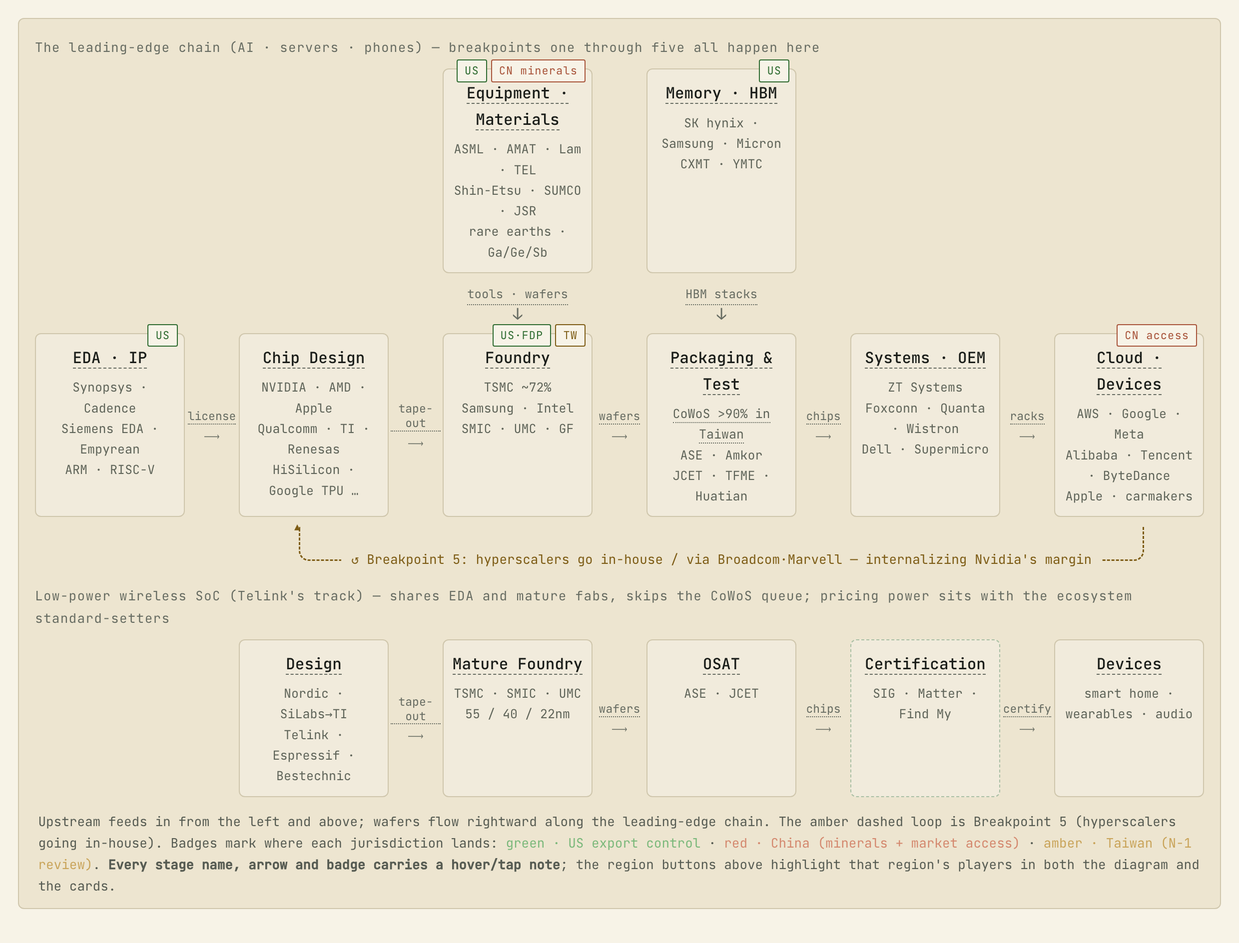
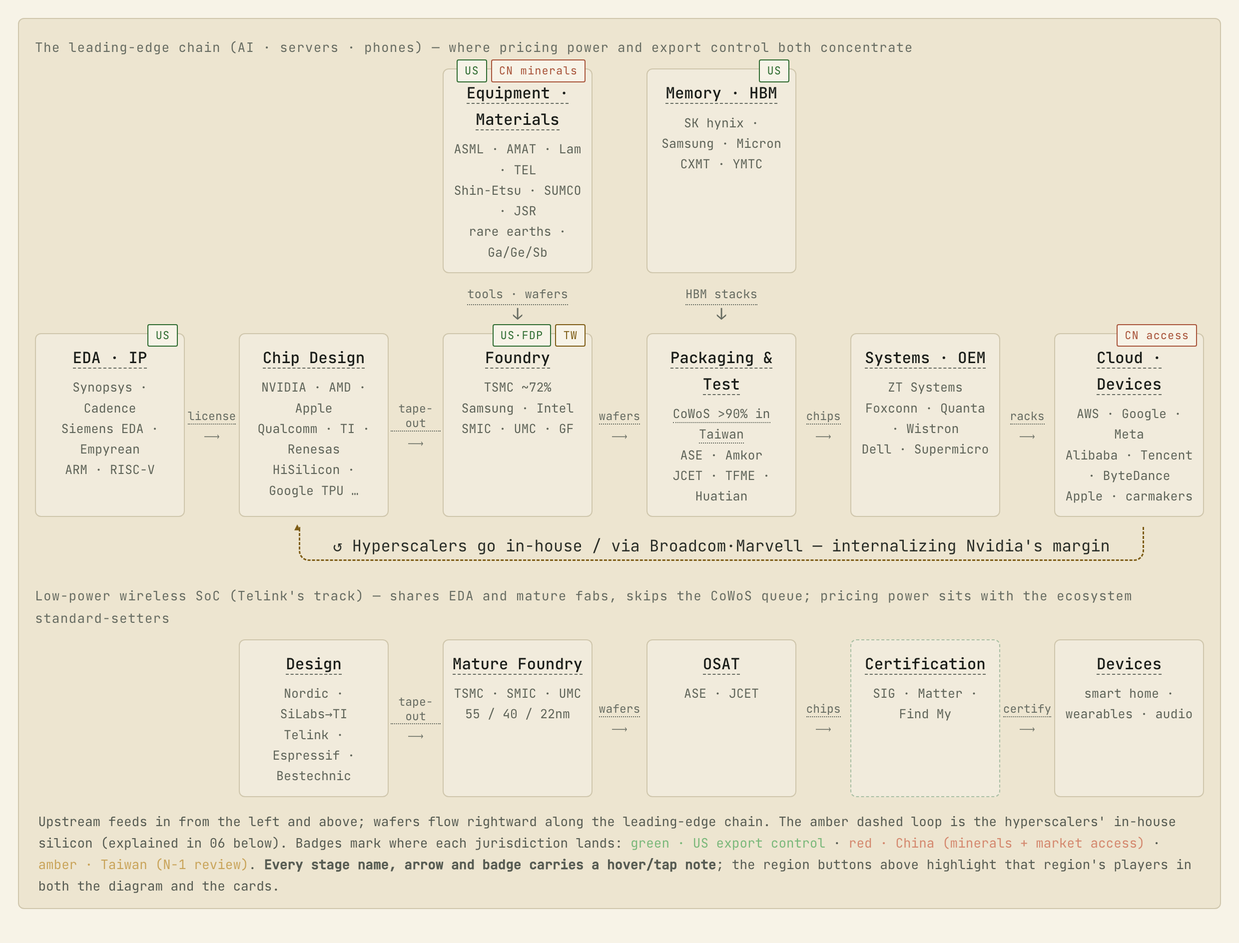
semis: drop the breakpoint numbering, explain the loop in prose
"断点一到五都发生在这条线上" pointed at a numbering the page never
defines, and the rack tooltip pointed at "the last column in the
demand-migration table" — a table that lives on the breakpoints page,
which is off the site. Both were unresolvable for anyone holding only
this page.

The lane header now says what is true of that line on its own terms
(pricing power and export control concentrate there). The rack tooltip
states the shift directly. The amber loop keeps its label but loses the
number and its in-figure definition; the substance moves to a prose
block at the end of 06, where the hyperscalers already are.

Figures re-captured, both themes.

diff --git a/quartz/static/semis/value-chain-map.html b/quartz/static/semis/value-chain-map.html
@@ -350,7 +350,7 @@ h1.article-title{font-size:26px}
 <div class="ctrl-group"><span class="ctrl-lab"><span class="tg-lang zh">地区筛选</span><span class="tg-lang en">Region filter</span></span><div class="legend"><label class="b-all" for="r-all"><span class="tg-lang zh">全部</span><span class="tg-lang en">All</span></label><label class="b-us" for="r-us"><span class="tg-lang zh">美国</span><span class="tg-lang en">US</span></label><label class="b-tw" for="r-tw"><span class="tg-lang zh">台湾</span><span class="tg-lang en">Taiwan</span></label><label class="b-cn" for="r-cn"><span class="tg-lang zh">中国大陆</span><span class="tg-lang en">China</span></label><label class="b-kr" for="r-kr"><span class="tg-lang zh">韩国</span><span class="tg-lang en">Korea</span></label><label class="b-jp" for="r-jp"><span class="tg-lang zh">日本</span><span class="tg-lang en">Japan</span></label><label class="b-eu" for="r-eu"><span class="tg-lang zh">欧洲</span><span class="tg-lang en">Europe</span></label><label class="b-gl" for="r-gl"><span class="tg-lang zh">跨国/标准</span><span class="tg-lang en">Global/Standards</span></label></div></div>
 </div>
 <p class="hint"><span class="tg-lang zh">悬停或点按任意玩家、环节可看解释；颜色 = 总部所在地，点「地区筛选」只看某一地区；<b>US / CN / TW</b> 角标 = 该层受哪套管辖权约束。</span><span class="tg-lang en">Hover or tap any player or stage for a note. Color = HQ region — use the region filter to isolate one. <b>US / CN / TW</b> badges mark which jurisdiction binds each layer.</span></p>
-<figure class="fig"><div class="fgrid"><div class="flane" style="grid-row:1;grid-column:1/-1"><span class="tg-lang zh">先进制程链（AI · 服务器 · 手机）—— 断点一到五都发生在这条线上</span><span class="tg-lang en">The leading-edge chain (AI · servers · phones) — breakpoints one through five all happen here</span></div>
+<figure class="fig"><div class="fgrid"><div class="flane" style="grid-row:1;grid-column:1/-1"><span class="tg-lang zh">先进制程链（AI · 服务器 · 手机）—— 定价权与出口管制都集中在这条线上</span><span class="tg-lang en">The leading-edge chain (AI · servers · phones) — where pricing power and export control both concentrate</span></div>
 <div class="fbox" style="grid-row:2;grid-column:5"><span class="ftag"><span class="fpill fp-us tg-tip" tabindex="0">US<span class="tg-tip-box"><span class="tg-lang zh"><b>美国出口管制落点</b>。BIS 许可 + 实体清单。管的是「你能不能造出来」——工具、软件、IP、HBM，全部在上游。</span><span class="tg-lang en"><b>Where US export control lands.</b> BIS licensing plus the Entity List. It governs whether you can build at all — tools, software, IP, HBM: all upstream.</span></span></span><span class="fpill fp-cn tg-tip" tabindex="0"><span class="tg-lang zh">CN 稀土</span><span class="tg-lang en">CN minerals</span><span class="tg-tip-box"><span class="tg-lang zh"><b>镓、锗、锑</b>。半导体和光电器件的关键原料。中国 2023 年起实施出口许可，2024 年 12 月 3 日宣布对美国「原则上不予许可」——直接对应前一天美国的实体清单大扩容。2025 年 11 月改为许可制并暂停至 2026 年 11 月 27 日，但军事用户禁令保留。<br><br><b>0.1% 微量规则</b>。中国商务部 2025 年 10 月 9 日第 61/62 号公告的核心：只要一件外国制造的产品里含有价值占比 0.1% 以上的中国原产稀土，出口就需要中国的许可证。<b>这是中国版的 FDP 规则</b>——同样的域外管辖逻辑，方向相反。</span><span class="tg-lang en"><b>Gallium, germanium, antimony</b> — critical inputs for semiconductors and optoelectronics. China imposed licensing from 2023 and on 3 December 2024 announced exports to the US would 'in principle' not be permitted — one day after the largest US Entity List expansion. Converted back to licensing in November 2025 and suspended until 27 November 2026, though the military end-user ban remains.<br><br><b>The 0.1% de minimis rule</b> — the core of China's MOFCOM Notices 61/62 of 9 October 2025: any foreign-made good containing Chinese-origin rare earths worth 0.1% or more of its value requires a Chinese export licence. <b>This is China's FDP rule</b> — the same extraterritorial logic, pointed the other way.</span></span></span></span><span class="ft"><span class="tg-tip " tabindex="0"><span class="tg-lang zh">设备 · 材料</span><span class="tg-lang en">Equipment · Materials</span><span class="tg-tip-box"><span class="tg-lang zh"><b>设备 · 材料</b>。造芯片用的机器和原料，集中度比下游任何一层都高：EUV 只有 ASML 一家，其光源来自美国 Cymer、镜头来自德国蔡司。稀土和镓锗锑的精炼环节 80% 以上在中国。</span><span class="tg-lang en"><b>Equipment & materials</b> — more concentrated than anything downstream: one EUV maker (ASML), whose source is American (Cymer) and optics German (Zeiss). China refines 80%+ of rare earths and Ga/Ge/Sb.</span></span></span></span><span class="fp"><span class="sr sr-eu">ASML</span> · <span class="sr sr-us">AMAT</span> · <span class="sr sr-us">Lam</span> · <span class="sr sr-jp">TEL</span><br><span class="sr sr-jp"><span class="tg-lang zh">信越</span><span class="tg-lang en">Shin-Etsu</span></span> · <span class="sr sr-jp">SUMCO</span> · <span class="sr sr-jp">JSR</span><br><span class="sr sr-cn"><span class="tg-lang zh">稀土 · 镓锗锑</span><span class="tg-lang en">rare earths · Ga/Ge/Sb</span></span></span></div>
 <div class="fbox" style="grid-row:2;grid-column:7"><span class="ftag"><span class="fpill fp-us tg-tip" tabindex="0">US<span class="tg-tip-box"><span class="tg-lang zh"><b>美国出口管制落点</b>。BIS 许可 + 实体清单。管的是「你能不能造出来」——工具、软件、IP、HBM，全部在上游。</span><span class="tg-lang en"><b>Where US export control lands.</b> BIS licensing plus the Entity List. It governs whether you can build at all — tools, software, IP, HBM: all upstream.</span></span></span></span><span class="ft"><span class="tg-tip " tabindex="0"><span class="tg-lang zh">存储 · HBM</span><span class="tg-lang en">Memory · HBM</span><span class="tg-tip-box"><span class="tg-lang zh"><b>HBM（High Bandwidth Memory，高带宽内存）</b>。垂直堆叠的 DRAM，紧贴处理器裸片放置。AI 加速器的主要规格竞赛点，全球只有 SK 海力士、三星、美光三家能量产。2024 年 12 月起被列入美国出口管制，<b>这是目前限制华为昇腾出货量的真正瓶颈——不是逻辑晶圆</b>。</span><span class="tg-lang en"><b>HBM (High Bandwidth Memory)</b> — vertically stacked DRAM placed against the processor die. Only SK hynix, Samsung and Micron produce it at volume. Export-controlled by the US since December 2024, and <b>the actual binding constraint on Huawei's Ascend shipments — not logic wafers</b>.</span></span></span></span><span class="fp"><span class="sr sr-kr"><span class="tg-lang zh">SK 海力士</span><span class="tg-lang en">SK hynix</span></span> · <span class="sr sr-kr"><span class="tg-lang zh">三星</span><span class="tg-lang en">Samsung</span></span> · <span class="sr sr-us"><span class="tg-lang zh">美光</span><span class="tg-lang en">Micron</span></span><br><span class="sr sr-cn"><span class="tg-lang zh">长鑫</span><span class="tg-lang en">CXMT</span></span> · <span class="sr sr-cn"><span class="tg-lang zh">长江存储</span><span class="tg-lang en">YMTC</span></span></span></div>
 <div class="fvert" style="grid-row:3;grid-column:5"><span class="tg-tip " tabindex="0"><span class="tg-lang zh">设备 · 硅片</span><span class="tg-lang en">tools · wafers</span><span class="tg-tip-box"><span class="tg-lang zh">光刻机、刻蚀机、硅片、光刻胶从这里进厂。断供这一条竖线，工厂两年后就造不了下一代。</span><span class="tg-lang en">Scanners, etchers, wafers and resists enter the fab here. Cut this vertical and in two years the fab cannot build the next node.</span></span></span><span class="ar">↓</span></div>
@@ -364,9 +364,9 @@ h1.article-title{font-size:26px}
 <div class="fbox" style="grid-row:4;grid-column:7"><span class="ft"><span class="tg-tip " tabindex="0"><span class="tg-lang zh">封装测试</span><span class="tg-lang en">Packaging & Test</span><span class="tg-tip-box"><span class="tg-lang zh"><b>封装测试</b>。晶圆切成裸片后，封装把裸片装进能焊到电路板上的黑块，测试逐颗通电挑坏。AI 芯片在这一步把逻辑裸片和 HBM 合体（CoWoS）——<b>整条链的真正瓶颈在这里，不在晶圆</b>。</span><span class="tg-lang en"><b>Packaging & test.</b> Dies are sealed into solderable packages and tested part by part. For AI chips this is where logic dies meet HBM (CoWoS) — <b>the chain's real bottleneck, ahead of wafers</b>.</span></span></span></span><span class="fp"><span class="tg-tip sr sr-tw" tabindex="0"><span class="sr sr-tw"><span class="tg-lang zh">CoWoS &gt;90% 在台</span><span class="tg-lang en">CoWoS &gt;90% in Taiwan</span></span><span class="tg-tip-box"><span class="tg-lang zh"><b>CoWoS（Chip-on-Wafer-on-Substrate）</b>。台积电的先进封装技术，把逻辑裸片和 HBM 堆栈接合到同一块中介层上。<b>限制 AI 芯片产出的真正瓶颈是它的产能，而不是晶圆产能</b>。台积电握有全球九成以上的 CoWoS 产能，2026 年底目标月产约 12 万片。</span><span class="tg-lang en"><b>CoWoS (Chip-on-Wafer-on-Substrate)</b> — TSMC's advanced packaging process, bonding logic dies and HBM stacks onto a shared interposer. <b>The real constraint on AI chip output is CoWoS capacity, not wafer capacity.</b> TSMC holds over 90% of it, targeting ~120k wafers/month by end-2026.</span></span></span><br><span class="sr sr-tw"><span class="tg-lang zh">日月光</span><span class="tg-lang en">ASE</span></span> · <span class="sr sr-us"><span class="tg-lang zh">安靠</span><span class="tg-lang en">Amkor</span></span><br><span class="sr sr-cn"><span class="tg-lang zh">长电</span><span class="tg-lang en">JCET</span></span> · <span class="sr sr-cn"><span class="tg-lang zh">通富</span><span class="tg-lang en">TFME</span></span> · <span class="sr sr-cn"><span class="tg-lang zh">华天</span><span class="tg-lang en">Huatian</span></span></span></div>
 <div class="fcon" style="grid-row:4;grid-column:8"><span class="tg-tip " tabindex="0"><span class="tg-lang zh">芯片</span><span class="tg-lang en">chips</span><span class="tg-tip-box"><span class="tg-lang zh">封好、测完、挑掉坏品之后的成品芯片。</span><span class="tg-lang en">Finished chips: packaged, tested, bad parts culled.</span></span></span><span class="ar">⟶</span></div>
 <div class="fbox" style="grid-row:4;grid-column:9"><span class="ft"><span class="tg-tip " tabindex="0"><span class="tg-lang zh">系统 · 整机</span><span class="tg-lang en">Systems · OEM</span><span class="tg-tip-box"><span class="tg-lang zh"><b>系统 · 整机</b>。把芯片装成服务器和整机架。AI 时代「能交付一整套能跑的系统」本身就是定价权——AMD 花 49 亿美元买 ZT Systems，买的就是这件事。</span><span class="tg-lang en"><b>Systems & racks.</b> In the AI era, the ability to deliver a complete working system is itself pricing power — that is what AMD's $4.9bn for ZT Systems bought.</span></span></span></span><span class="fp"><span class="sr sr-us">ZT Systems</span><br><span class="sr sr-tw"><span class="tg-lang zh">鸿海</span><span class="tg-lang en">Foxconn</span></span> · <span class="sr sr-tw"><span class="tg-lang zh">广达</span><span class="tg-lang en">Quanta</span></span> · <span class="sr sr-tw"><span class="tg-lang zh">纬创</span><span class="tg-lang en">Wistron</span></span><br><span class="sr sr-us">Dell</span> · <span class="sr sr-us">Supermicro</span></span></div>
-<div class="fcon" style="grid-row:4;grid-column:10"><span class="tg-tip " tabindex="0"><span class="tg-lang zh">整机架</span><span class="tg-lang en">racks</span><span class="tg-tip-box"><span class="tg-lang zh">AI 的交付单位已经从「一张卡」变成「一个整机架」——这正是断点四表格里最后一栏的含义。</span><span class="tg-lang en">The AI unit of delivery has shifted from a card to a full rack — the meaning of the last column in the demand-migration table.</span></span></span><span class="ar">⟶</span></div>
+<div class="fcon" style="grid-row:4;grid-column:10"><span class="tg-tip " tabindex="0"><span class="tg-lang zh">整机架</span><span class="tg-lang en">racks</span><span class="tg-tip-box"><span class="tg-lang zh">AI 的交付单位已经从「一张卡」变成「一个整机架」——定价权也跟着从单颗芯片挪到了整机交付能力。</span><span class="tg-lang en">The AI unit of delivery has shifted from a card to a full rack, and pricing power moved with it — from the chip to whoever can ship the rack.</span></span></span><span class="ar">⟶</span></div>
 <div class="fbox" style="grid-row:4;grid-column:11"><span class="ftag"><span class="fpill fp-cn tg-tip" tabindex="0"><span class="tg-lang zh">CN 准入</span><span class="tg-lang en">CN access</span><span class="tg-tip-box"><span class="tg-lang zh"><b>中国的杠杆：市场准入</b>。让不让本国公司买。2025 年 9 月网信办禁止主要科技公司采购英伟达 AI 芯片；2026 年 8 月仅放行获批 H200 数量的约 13%，其余需发改委逐案批准。</span><span class="tg-lang en"><b>China's lever: market access.</b> Whether its own firms may buy. In Sept 2025 the CAC barred major tech firms from Nvidia AI chips; in Aug 2026 only ~13% of authorized H200 volume was released, the rest pending case-by-case NDRC approval.</span></span></span></span><span class="ft"><span class="tg-tip tipR " tabindex="0"><span class="tg-lang zh">云 · 终端</span><span class="tg-lang en">Cloud · Devices</span><span class="tg-tip-box"><span class="tg-lang zh"><b>云 · 终端</b>。最终买单的人。本轮增长由少数超大规模厂商的资本开支驱动，而不是手机/PC 的单位出货——周期风险的性质因此完全变了。</span><span class="tg-lang en"><b>Cloud & end buyers.</b> This cycle is driven by a few hyperscalers' capex, not phone/PC units — which changes the very nature of cyclical risk.</span></span></span></span><span class="fp"><span class="sr sr-us">AWS</span> · <span class="sr sr-us">Google</span> · <span class="sr sr-us">Meta</span><br><span class="sr sr-cn"><span class="tg-lang zh">阿里</span><span class="tg-lang en">Alibaba</span></span> · <span class="sr sr-cn"><span class="tg-lang zh">腾讯</span><span class="tg-lang en">Tencent</span></span> · <span class="sr sr-cn"><span class="tg-lang zh">字节</span><span class="tg-lang en">ByteDance</span></span><br><span class="sr sr-us">Apple</span> · <span class="sr sr-gl"><span class="tg-lang zh">车厂</span><span class="tg-lang en">carmakers</span></span></span></div>
-<div class="fbrk" style="grid-row:5;grid-column:3/12"><span class="tg-tip " tabindex="0"><span class="tg-lang zh">↺ 断点五：云厂商自研 / 委托 Broadcom·Marvell —— 把英伟达的毛利内化</span><span class="tg-lang en">↺ Breakpoint 5: hyperscalers go in-house / via Broadcom·Marvell — internalizing Nvidia's margin</span><span class="tg-tip-box"><span class="tg-lang zh"><b>断点五</b>。超大规模厂商自研芯片（Google TPU、AWS Trainium、Microsoft Maia、Meta MTIA），或委托博通/Marvell 协同设计（两家合计约占定制 ASIC 市场 95%）。动机第一条：把英伟达 70%+ 的毛利内化。</span><span class="tg-lang en"><b>Breakpoint 5.</b> Hyperscalers design in-house (TPU, Trainium, Maia, MTIA) or co-design with Broadcom/Marvell (together ~95% of custom ASIC). Motive #1: internalize Nvidia's 70%+ gross margin.</span></span></span></div>
+<div class="fbrk" style="grid-row:5;grid-column:3/12"><span><span class="tg-lang zh">↺ 云厂商自研 / 委托 Broadcom·Marvell —— 把英伟达的毛利内化</span><span class="tg-lang en">↺ Hyperscalers go in-house / via Broadcom·Marvell — internalizing Nvidia's margin</span></span></div>
 <div class="flane" style="grid-row:6;grid-column:1/-1;margin-top:14px"><span class="tg-lang zh">低功耗无线 SoC（泰凌微所在赛道）—— 共用 EDA 与成熟产线，不排 CoWoS 的队，定价权在生态标准方</span><span class="tg-lang en">Low-power wireless SoC (Telink's track) — shares EDA and mature fabs, skips the CoWoS queue; pricing power sits with the ecosystem standard-setters</span></div>
 <div class="fbox" style="grid-row:7;grid-column:3"><span class="ft"><span class="tg-tip " tabindex="0"><span class="tg-lang zh">设计</span><span class="tg-lang en">Design</span><span class="tg-tip-box"><span class="tg-lang zh"><b>低功耗无线 SoC 设计</b>。竞争维度是功耗、协议覆盖、认证、SDK 易用性和成本——不是算力。单价几毛到几美元，年出货以亿颗计。</span><span class="tg-lang en"><b>Low-power wireless SoC design.</b> The axes are power, protocol coverage, certification, SDK usability and cost — not compute. Cents to dollars per chip, hundreds of millions of units a year.</span></span></span></span><span class="fp"><span class="sr sr-eu">Nordic</span> · <span class="sr sr-us">SiLabs→TI</span><br><span class="sr sr-cn"><span class="tg-lang zh">泰凌微</span><span class="tg-lang en">Telink</span></span> · <span class="sr sr-cn"><span class="tg-lang zh">乐鑫</span><span class="tg-lang en">Espressif</span></span> · <span class="sr sr-cn"><span class="tg-lang zh">恒玄</span><span class="tg-lang en">Bestechnic</span></span></span></div>
 <div class="fcon" style="grid-row:7;grid-column:4"><span class="tg-tip " tabindex="0"><span class="tg-lang zh">版图</span><span class="tg-lang en">tape-out</span><span class="tg-tip-box"><span class="tg-lang zh"><b>版图（GDSII）→ tape-out</b>。设计数据定稿、签核、交给代工厂的那个时间点。注意它是事件不是过程。一颗普通 7nm SoC 的首次 tape-out 通常就要 5,000 万美元。</span><span class="tg-lang en"><b>Layout (GDSII) → tape-out</b> — the moment design data is finalized, signed off and handed to the foundry. An event, not a process. A first tape-out of an ordinary 7nm SoC typically runs $50m.</span></span></span><span class="ar">⟶</span></div>
@@ -376,7 +376,7 @@ h1.article-title{font-size:26px}
 <div class="fcon" style="grid-row:7;grid-column:8"><span class="tg-tip " tabindex="0"><span class="tg-lang zh">芯片</span><span class="tg-lang en">chips</span><span class="tg-tip-box"><span class="tg-lang zh">封好、测完、挑掉坏品之后的成品芯片。</span><span class="tg-lang en">Finished chips: packaged, tested, bad parts culled.</span></span></span><span class="ar">⟶</span></div>
 <div class="fbox dashed" style="grid-row:7;grid-column:9"><span class="ft"><span class="tg-tip " tabindex="0"><span class="tg-lang zh">认证 · 生态</span><span class="tg-lang en">Certification</span><span class="tg-tip-box"><span class="tg-lang zh"><b>认证 · 生态</b>。芯片厂控制不了的一道门：Bluetooth SIG、Matter、Find My、各国无线电核准决定「什么算能用的设备」。<b>这道门是这条赛道定价权不在芯片厂手上的原因。</b></span><span class="tg-lang en"><b>Certification & ecosystems</b> — a gate the chip vendor does not control: Bluetooth SIG, Matter, Find My and radio approvals decide what counts as a working device. <b>This gate is why pricing power in low-power wireless does not sit with chip makers.</b></span></span></span></span><span class="fp"><span class="sr sr-gl">SIG · Matter · Find My</span></span></div>
 <div class="fcon" style="grid-row:7;grid-column:10"><span class="tg-tip " tabindex="0"><span class="tg-lang zh">进生态</span><span class="tg-lang en">certify</span><span class="tg-tip-box"><span class="tg-lang zh">过了认证才能进 Apple / Google / Amazon 的生态。进不去，芯片再好也卖不动。</span><span class="tg-lang en">Certification is the ticket into the Apple / Google / Amazon ecosystems. Without it, a better chip still does not sell.</span></span></span><span class="ar">⟶</span></div>
-<div class="fbox" style="grid-row:7;grid-column:11"><span class="ft"><span class="tg-tip tipR " tabindex="0"><span class="tg-lang zh">终端</span><span class="tg-lang en">Devices</span><span class="tg-tip-box"><span class="tg-lang zh"><b>终端</b>。智能家居、穿戴、音频。一颗芯片几毛到几美元，一辆车、一间屋子里有几十上百颗。</span><span class="tg-lang en"><b>End devices</b> — smart home, wearables, audio. Cents to dollars per chip; dozens to hundreds per car or household.</span></span></span></span><span class="fp"><span class="tg-lang zh">智能家居 · 穿戴 · 音频</span><span class="tg-lang en">smart home · wearables · audio</span></span></div></div><figcaption><span class="tg-lang zh">上游从左侧与上方汇入，晶圆沿先进制程链向右流动；琥珀色虚线是断点五（超大规模厂商自研）。角标 = 管辖权落点：</span><span class="tg-lang en">Upstream feeds in from the left and above; wafers flow rightward along the leading-edge chain. The amber dashed loop is Breakpoint 5 (hyperscalers going in-house). Badges mark where each jurisdiction lands: </span><span style="color:#7ab87a"><span class="tg-lang zh">绿 · 美国出口管制</span><span class="tg-lang en">green · US export control</span></span> · <span style="color:#d4886e"><span class="tg-lang zh">红 · 中国（稀土 + 市场准入）</span><span class="tg-lang en">red · China (minerals + market access)</span></span> · <span style="color:#c9a45a"><span class="tg-lang zh">黄 · 台湾（N-1 审查）</span><span class="tg-lang en">amber · Taiwan (N-1 review)</span></span><span class="tg-lang zh">。</span><span class="tg-lang en">. </span><span class="tg-lang zh"><b>图里每个环节名、每条箭头、每个角标都可悬停/点按看解释</b>；点上方地区按钮，图和卡片同时高亮该地区玩家。</span><span class="tg-lang en"><b>Every stage name, arrow and badge carries a hover/tap note</b>; the region buttons above highlight that region's players in both the diagram and the cards.</span></figcaption></figure>
+<div class="fbox" style="grid-row:7;grid-column:11"><span class="ft"><span class="tg-tip tipR " tabindex="0"><span class="tg-lang zh">终端</span><span class="tg-lang en">Devices</span><span class="tg-tip-box"><span class="tg-lang zh"><b>终端</b>。智能家居、穿戴、音频。一颗芯片几毛到几美元，一辆车、一间屋子里有几十上百颗。</span><span class="tg-lang en"><b>End devices</b> — smart home, wearables, audio. Cents to dollars per chip; dozens to hundreds per car or household.</span></span></span></span><span class="fp"><span class="tg-lang zh">智能家居 · 穿戴 · 音频</span><span class="tg-lang en">smart home · wearables · audio</span></span></div></div><figcaption><span class="tg-lang zh">上游从左侧与上方汇入，晶圆沿先进制程链向右流动；琥珀色虚线是云厂商自研芯片那条回路（见下方 06）。角标 = 管辖权落点：</span><span class="tg-lang en">Upstream feeds in from the left and above; wafers flow rightward along the leading-edge chain. The amber dashed loop is the hyperscalers' in-house silicon (explained in 06 below). Badges mark where each jurisdiction lands: </span><span style="color:#7ab87a"><span class="tg-lang zh">绿 · 美国出口管制</span><span class="tg-lang en">green · US export control</span></span> · <span style="color:#d4886e"><span class="tg-lang zh">红 · 中国（稀土 + 市场准入）</span><span class="tg-lang en">red · China (minerals + market access)</span></span> · <span style="color:#c9a45a"><span class="tg-lang zh">黄 · 台湾（N-1 审查）</span><span class="tg-lang en">amber · Taiwan (N-1 review)</span></span><span class="tg-lang zh">。</span><span class="tg-lang en">. </span><span class="tg-lang zh"><b>图里每个环节名、每条箭头、每个角标都可悬停/点按看解释</b>；点上方地区按钮，图和卡片同时高亮该地区玩家。</span><span class="tg-lang en"><b>Every stage name, arrow and badge carries a hover/tap note</b>; the region buttons above highlight that region's players in both the diagram and the cards.</span></figcaption></figure>
 <p class="govhead"><span class="tg-lang zh">三套管辖权 · 悬停看规则细节</span><span class="tg-lang en">Three jurisdictions · hover for the rules</span></p>
 <div class="govwrap"><div class="govcard g-us tg-tip" tabindex="0"><b>美国管辖 · US jurisdiction</b><em><span class="tg-lang zh">EDA / 设备 / 先进逻辑 / HBM</span><span class="tg-lang en">EDA / tools / leading-edge logic / HBM</span></em><span class="tg-tip-box"><span class="tg-lang zh"><b>FDP 规则 + 实体清单 + BIS 许可</b>。只要一件外国制造的产品是用美国技术「直接生产」的，美国就主张管辖权——不论它在哪造。这才是台积电受美国法律约束的原因。2022 年 10 月 7 日的规则设定了 16/14nm 逻辑、18nm DRAM、128 层 NAND 的门槛；2024 年 12 月又把 FDP 扩展到设备本身。</span><span class="tg-lang en"><b>FDP rule + Entity List + BIS licensing.</b> If a foreign-made item is the direct product of US technology, Washington claims jurisdiction — wherever it was made. That, not its customer list, is why TSMC is bound by US law. The 7 Oct 2022 rule set thresholds at 16/14nm logic, 18nm DRAM, 128-layer NAND; Dec 2024 extended FDP to equipment itself.</span></span></div><div class="govcard g-cn tg-tip" tabindex="0"><b>中国管辖 · China jurisdiction</b><em><span class="tg-lang zh">稀土 / 镓锗锑 / 最终用途</span><span class="tg-lang en">rare earths / Ga-Ge-Sb / end-use</span></em><span class="tg-tip-box"><span class="tg-lang zh"><b>0.1% 微量规则 + 两用物项管制</b>。2025 年 10 月 9 日商务部第 61/62 号公告：外国制造的商品只要含 0.1% 以上中国原产稀土，出口就需中国许可。<b>结构上与美国 FDP 规则同构。</b>釜山会晤后暂停至 2026 年 11 月 10 日。</span><span class="tg-lang en"><b>The 0.1% de minimis rule + dual-use controls.</b> MOFCOM Notices 61/62 of 9 Oct 2025: any foreign-made good with ≥0.1% Chinese-origin rare-earth content needs a Chinese export licence. <b>Structurally isomorphic to the US FDP rule.</b> Suspended after Busan until 10 Nov 2026.</span></span></div><div class="govcard g-tw tg-tip" tabindex="0"><b>台湾管辖 · Taiwan jurisdiction</b><em><span class="tg-lang zh">代工出海 / 制程外移</span><span class="tg-lang en">overseas fabs / node migration</span></em><span class="tg-tip-box"><span class="tg-lang zh"><b>N-1 原则 + 产创条例第 22 条</b>。海外制程至少落后本土一代。<b>从来不是成文禁令，而是通过投资审查行使的裁量性规范</b>，2025 年 1 月 11 日被经济部长公开松绑，此后持续放宽。</span><span class="tg-lang en"><b>The N-1 rule + Article 22 review.</b> Overseas nodes must trail home by a generation. <b>Never a codified ban — a discretionary norm applied through investment review</b>, publicly relaxed by the economics minister on 11 Jan 2025 and loosened since.</span></span></div></div>
 <section class="stage" id="s-mat">
@@ -429,6 +429,7 @@ h1.article-title{font-size:26px}
 <p class="st-kicker"><span class="tg-lang zh">AI 时代的定价权不在单颗芯片的性能上，而在能不能交付一整套能跑的系统。</span><span class="tg-lang en">AI-era pricing power does not sit in single-chip performance — it sits in whether you can deliver a complete working system.</span></p>
 <div class="grp"><p class="grp-l">机架与代工<i>·</i>Rack &amp; ODM</p><div class="chips"><span class="chip c-us tg-tip" data-r="us" tabindex="0"><span class="chip-n">ZT Systems</span><span class="chip-m"><span class="tg-lang zh">→ AMD 49 亿美元</span><span class="tg-lang en">→ AMD, $4.9bn</span></span><span class="tg-tip-box"><span class="tg-lang zh"><b>ZT Systems</b>。机架级 AI 系统厂商，AMD 以 49 亿美元收购、2025 年 3 月完成。<b>AMD 买的不是技术，是「能交付整机架」这件事本身。</b></span><span class="tg-lang en"><b>ZT Systems</b> — rack-scale AI systems; bought by AMD for $4.9bn, closed March 2025. <b>What AMD bought is not technology but the ability to deliver full racks.</b></span></span></span><span class="chip c-tw tg-tip" data-r="tw" tabindex="0"><span class="chip-n">Foxconn 鸿海 · Quanta · Wistron</span><span class="chip-m"><span class="tg-lang zh">AI 服务器代工</span><span class="tg-lang en">AI server ODM</span></span><span class="tg-tip-box"><span class="tg-lang zh"><b>台系 ODM</b>。鸿海、广达、纬创承接了绝大部分 AI 服务器的实际组装。</span><span class="tg-lang en"><b>Taiwanese ODMs</b> — Foxconn, Quanta and Wistron do the actual assembly of most AI servers.</span></span></span><span class="chip c-us tg-tip" data-r="us" tabindex="0"><span class="chip-n">Supermicro · Dell · HPE</span><span class="chip-m"><span class="tg-lang zh">服务器品牌</span><span class="tg-lang en">server brands</span></span><span class="tg-tip-box"><span class="tg-lang zh"><b>服务器品牌厂</b>。</span><span class="tg-lang en"><b>Server brands.</b></span></span></span></div></div>
 <div class="grp"><p class="grp-l">云 · 最终买家<i>·</i>Cloud &amp; End Buyers</p><div class="chips"><span class="chip c-us tg-tip" data-r="us" tabindex="0"><span class="chip-n">AWS · Google · Microsoft · Meta</span><span class="chip-m"><span class="tg-lang zh">超大规模四家</span><span class="tg-lang en">the four hyperscalers</span></span><span class="tg-tip-box"><span class="tg-lang zh"><b>超大规模厂商</b>。本轮周期最大的差别：增长不再由手机和 PC 的单位出货驱动，而由少数超大规模厂商的资本开支驱动。<b>周期性风险因此从「消费需求」转移到了「少数客户的资本开支决策」</b>——历史上没有先例可参照。</span><span class="tg-lang en"><b>The hyperscalers.</b> This cycle's defining difference: growth is driven by a handful of capex budgets, not phone and PC units. <b>Cyclical risk has moved from consumer demand to a few customers' capex decisions</b> — with no historical precedent to consult.</span></span></span><span class="chip c-cn tg-tip" data-r="cn" tabindex="0"><span class="chip-n">阿里 · 腾讯 · 字节</span><span class="chip-m"><span class="tg-lang zh">中国云</span><span class="tg-lang en">Chinese cloud</span></span><span class="tg-tip-box"><span class="tg-lang zh"><b>中国云厂商</b>。2026 年 8 月字节和腾讯各拿到约 1 万颗 H200，约为获批量的 13%；其余需发改委逐案批准，且北京在把部署往香港引导。</span><span class="tg-lang en"><b>China's clouds</b> — in Aug 2026 ByteDance and Tencent each received ~10,000 H200s, ~13% of the authorized volume; the rest needs case-by-case NDRC approval, with Beijing steering deployment toward Hong Kong.</span></span></span><span class="chip c-gl tg-tip" data-r="gl" tabindex="0"><span class="chip-n">Apple · Samsung · 车厂 OEMs</span><span class="chip-m"><span class="tg-lang zh">终端整机</span><span class="tg-lang en">end devices</span></span><span class="tg-tip-box"><span class="tg-lang zh"><b>终端厂商</b>。也是低功耗无线这条线上真正的定价权持有者之一。</span><span class="tg-lang en"><b>Device makers</b> — also among the true holders of pricing power in low-power wireless.</span></span></span></div></div>
+<div class="choke"><b><span class="tg-lang zh">云厂商正在把最赚钱的那一层收回自己手里</span><span class="tg-lang en">The cloud players are taking the most profitable layer in-house</span></b><br><span><span class="tg-lang zh">超大规模厂商自己设计 AI 芯片（Google TPU、AWS Trainium、Microsoft Maia、Meta MTIA），或与博通、Marvell 协同设计——这两家合计约占定制 ASIC 市场 95%。第一动机是把英伟达 70%+ 的毛利内化：外购加速卡的钱里，每十块有七块是别人的利润，自研把这部分变成自己的成本。上方图里那条琥珀色虚线画的就是这条回路——云厂商越过芯片设计这一环，直接接到代工与封装上。</span><span class="tg-lang en">Hyperscalers now design their own AI silicon (Google TPU, AWS Trainium, Microsoft Maia, Meta MTIA) or co-design with Broadcom and Marvell, who together hold roughly 95% of the custom-ASIC market. The first motive is to internalize Nvidia's 70%-plus gross margin: seven of every ten dollars spent on a bought accelerator is someone else's profit, and designing in-house turns that into your own cost. The amber dashed loop in the map above is exactly this circuit — the cloud players reaching past chip design straight to foundry and packaging.</span></span></div>
 </section>
 </div>
 </div>
